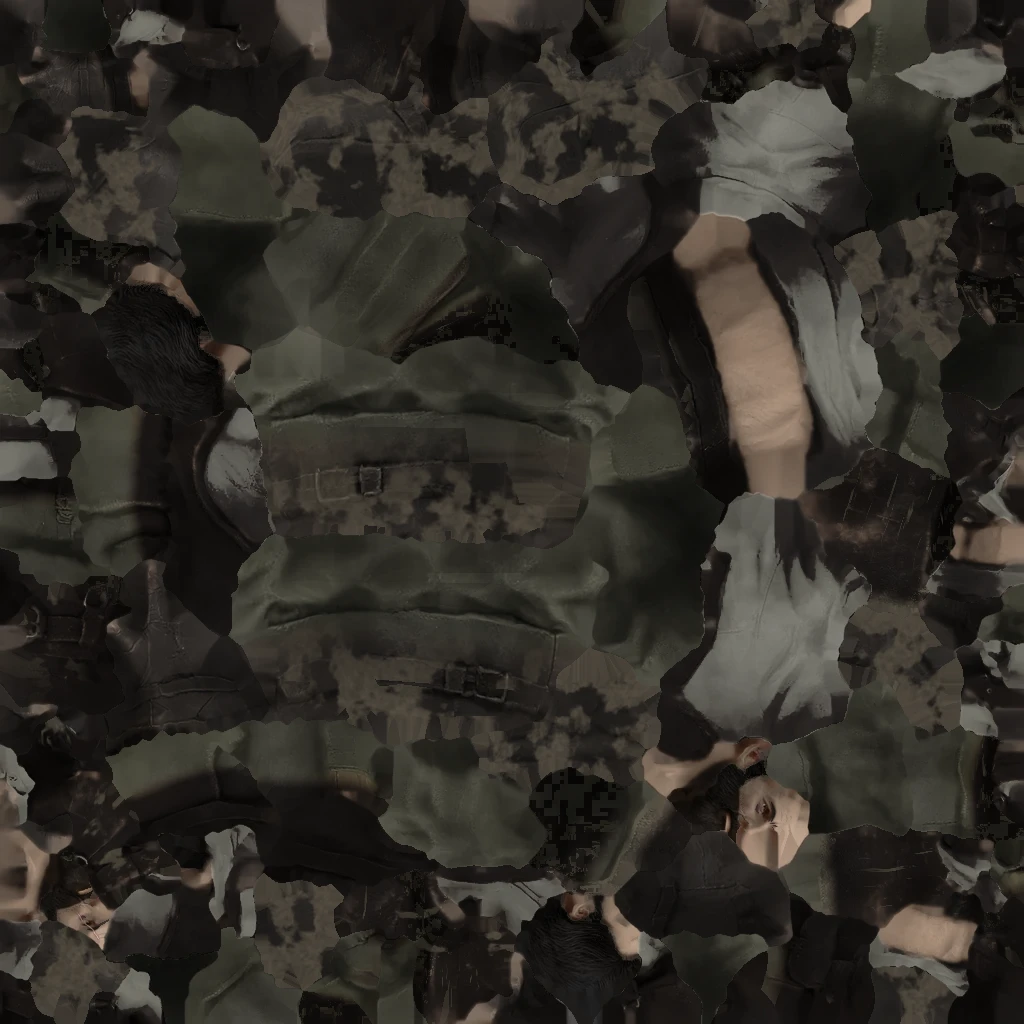
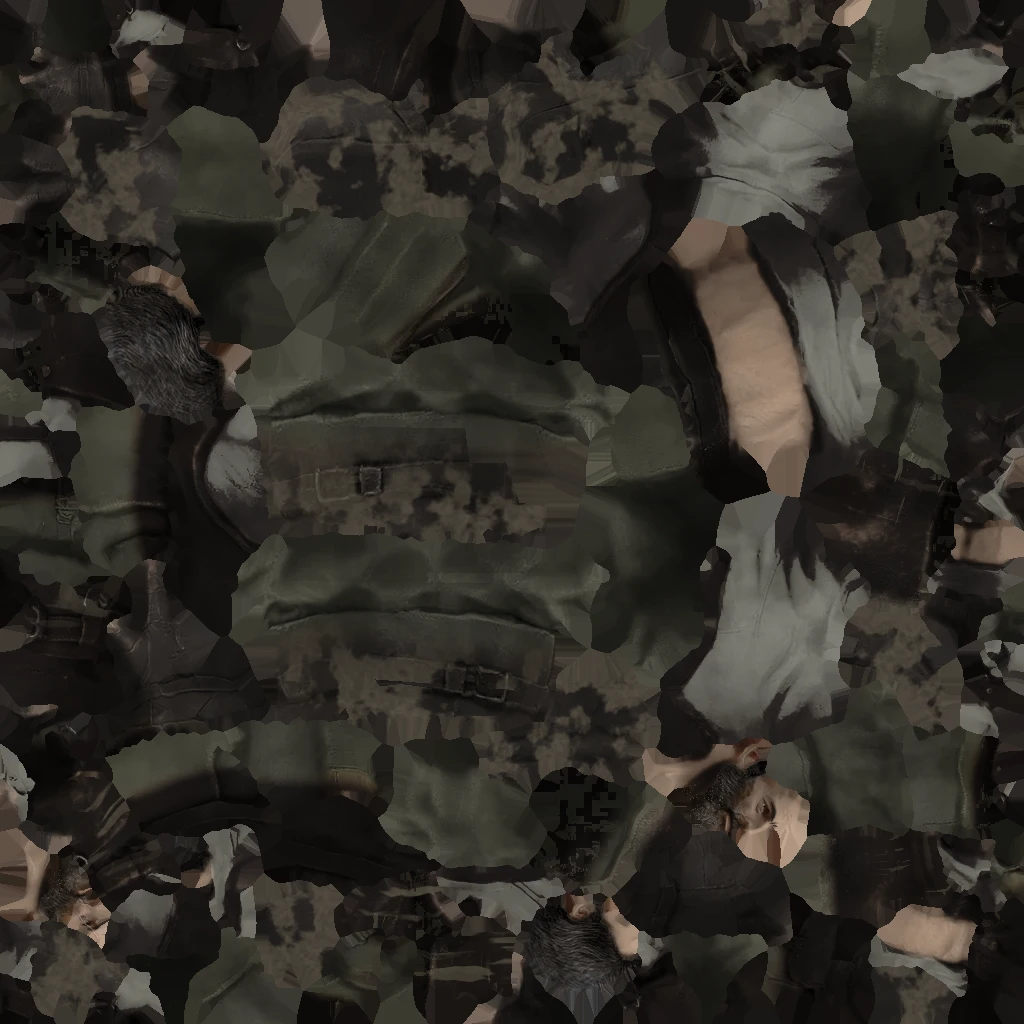
ph_tallow, round 3: the beard by its growth line, a broken nose, hooded lids, the old nick closed
Wes's forehead 'scar' was a triangle folded over; the sculpt now closes any such flap on the
head. Hair and beard lifted out of flat black with clumps and a few grey threads; the lips
and the mouth's corners; the scar one cut, a gap where it crosses the brow; tallow wiped
sideways and dripping straight; the moved face's normals smoothed. The viewer's ?flat probe.

Claude-Session: https://claude.ai/code/session_01YbmsD1HnEwDUrWv5TvmHtv

diff --git a/tools/folk/viewer.html b/tools/folk/viewer.html
@@ -48,7 +48,7 @@ try { folkJson = await fetch(base + 'folk.json').then((r) => (r.ok ? r.json() : 
 const renderer = new THREE.WebGLRenderer({ antialias: true, preserveDrawingBuffer: true });
 renderer.setPixelRatio(Math.min(2, devicePixelRatio));
 renderer.setSize(innerWidth, innerHeight);
-renderer.outputColorSpace = THREE.SRGBColorSpace;
+renderer.outputColorSpace = q.has('flat') ? THREE.LinearSRGBColorSpace : THREE.SRGBColorSpace;
 document.body.appendChild(renderer.domElement);
 const scene = new THREE.Scene();
 scene.background = new THREE.Color(0x3a3d42);
@@ -84,12 +84,13 @@ async function addBody(id, x) {
   g.setAttribute('normal', new THREE.BufferAttribute(N, 3));
   g.setAttribute('uv', new THREE.BufferAttribute(new Float32Array(uv), 2));
   g.setIndex(new THREE.BufferAttribute(new Uint32Array(idx), 1));
-  const mat = new THREE.MeshStandardMaterial({ color: 0xbbbbbb, roughness: 0.8, metalness: 0, side: THREE.DoubleSide })  // two-sided, as the game draws its people (cullMode none);
+  // (?flat: unlit and unfiltered, so a probe texture's texels can be read back off the screen.)
+  const mat = q.has('flat') ? new THREE.MeshBasicMaterial({ color: 0xbbbbbb, side: THREE.DoubleSide }) : new THREE.MeshStandardMaterial({ color: 0xbbbbbb, roughness: 0.8, metalness: 0, side: THREE.DoubleSide })  // two-sided, as the game draws its people (cullMode none);
   const c = folkJson?.swaps?.[id]?.c || model?.c;
-  if (c) tex.load(base + c, (t) => { t.colorSpace = THREE.SRGBColorSpace; t.flipY = false; mat.map = t; mat.color.set(0xffffff); mat.needsUpdate = true; });
+  if (c) tex.load(base + c, (t) => { t.colorSpace = q.has('flat') ? THREE.NoColorSpace : THREE.SRGBColorSpace; t.flipY = false; if (q.has('flat')) { t.magFilter = t.minFilter = THREE.NearestFilter; t.generateMipmaps = false; } mat.map = t; mat.color.set(0xffffff); mat.needsUpdate = true; });
   // The normal map, read the glTF way (three's GLTFLoader flips its y on a mesh with no tangents, so here too).
   const n = folkJson?.swaps?.[id]?.n || model?.n;
-  if (n && q.get('normals') !== '0') tex.load(base + n, (t) => { t.flipY = false; mat.normalMap = t; mat.normalScale.set(1, -1); mat.needsUpdate = true; });
+  if (n && q.get('normals') !== '0' && !q.has('flat')) tex.load(base + n, (t) => { t.flipY = false; mat.normalMap = t; mat.normalScale.set(1, -1); mat.needsUpdate = true; });
   const mesh = new THREE.Mesh(g, mat);
   mesh.frustumCulled = false;
   scene.add(mesh);

diff --git a/tools/phobos/grim_skin.py b/tools/phobos/grim_skin.py
@@ -25,7 +25,8 @@ nearest chart's point), and everything is a function of that point:
 
 `sculpt` in a skin moves the face itself: each move a soft blob in the front view (brow ridge forward and down,
 cheekbones out, cheeks in, the nose broken to one side, the jaw longer and wider), on the head bone's own skin only.
-It writes assets/game/folk/<id>.glb, the base body with those points moved and their normals turned to match; the
+It writes assets/game/folk/<id>.glb, the base body with those points moved and their normals turned to match (and
+any triangle folded over on the head closed); the
 skeleton, weights and UVs are the base's, so the rig, the clips, the normal and occlusion maps and the town's thread
 (which poses by the base's glb) all still fit. The swap names it as `glb`, and src/gfx/folk.js draws it in place of the
 base's mesh.
@@ -107,6 +108,13 @@ def texel_points(glb):
     pos, nrm, hd = pos[iy, ix], nrm[iy, ix], hd[iy, ix]
     nrm /= np.maximum(np.linalg.norm(nrm, axis=-1, keepdims=True), 1e-9)
     return pos, nrm, hd, cov
+
+
+def fill_gutters(img, cov):
+    """Every texel outside the charts takes its nearest chart texel's value, so what the GPU's filtering reads past a
+    chart's edge is the chart's own new colour, not the base's old padding."""
+    _, (iy, ix) = ndi.distance_transform_edt(~cov, return_indices=True)
+    return img[iy, ix]
 
 
 def noise3(p, cell, seed):
@@ -247,11 +255,28 @@ def face_marks(pos, nrm, hd, F, k):
     # over the creases would make a letter of them).
     for fy, x0, x1 in F["forehead"]:
         f = line(x, y, [(cx + x0, fy - 0.0015), (cx + (x0 * 0.5 + x1 * 0.5), fy + 0.001), (cx + x1, fy - 0.0015)], 0.0034)
-        f = f * smooth(np.abs(x - cx), 0.006, 0.010)
+        f = f * smooth(np.abs(x - cx), 0.008, 0.012)
         for piece in F.get("scar") or []:
-            f = f * smooth(poly_dist(x, y, piece)[0], 0.004, 0.008)
+            f = f * smooth(poly_dist(x, y, piece)[0], 0.008, 0.012)
         dark += f * k["forehead"]
         crease = np.maximum(crease, f * 0.5)
+    # Hooded upper lids: the fold of skin over each eye in shadow, heaviest at the outer corner.
+    for ex, ey in (F["eye_r"], F["eye_l"]):
+        out = 1 if ex > cx else -1
+        dark += line(x, y, [(ex - out * 0.011, ey + 0.004), (ex, ey + 0.0058), (ex + out * 0.013, ey + 0.0035)], 0.0045) * k["lids"]
+    # The broken nose: a shadowed plane down one side of the bridge, the light caught on the other (to the side its
+    # mesh was knocked).
+    side = F.get("nose_break", 1)
+    dark += blob(x, y, (cx - side * 0.0055, 1.646), (0.003, 0.012)) * k["nose"]
+    light += blob(x, y, (cx + side * 0.004, 1.648), (0.0028, 0.011)) * k["nose"] * 0.8
+    # The mouth: the lips taken nearly to the beard's dark, the upper lip shadowed, a little light on the lower; the
+    # corners a dark wedge into the moustache.
+    mx0, my = F["mouth_w"], F["mouth_y"]
+    dark += blob(x, y, (cx, my + 0.0022), (mx0 * 0.85, 0.0026), 4) * k["lips"]
+    dark += blob(x, y, (cx, my - 0.0025), (mx0 * 0.75, 0.003), 4) * k["lips"] * 0.55
+    light += blob(x, y, (cx, my - 0.0032), (mx0 * 0.35, 0.0015)) * k["lips"] * 0.5
+    for o in (-1, 1):
+        dark += line(x, y, [(cx + o * (mx0 - 0.003), my + 0.0005), (cx + o * (mx0 + 0.002), my - 0.002), (cx + o * (mx0 + 0.004), my + 0.004)], 0.004) * k["lips"]
     # The scar: one stroke from the forehead down through the brow, over the lid (which it skips), onto the cheekbone.
     scar = np.zeros(x.shape)
     eg = eye_gate(x, y, F)
@@ -259,9 +284,14 @@ def face_marks(pos, nrm, hd, F, k):
         sw = F.get("scar_w", 0.003)
         core = line(x, y, piece, sw) * eg
         scar = np.maximum(scar, core)
-        rim = np.clip(line(x, y, piece, sw * 1.9) * eg - core, 0, 1)
+        rim = np.clip(line(x, y, piece, sw * 1.7) * eg - core, 0, 1)
         dark += rim * k["scar_rim"]
-        crease = np.maximum(crease, rim * 0.5) - core * 0.4         # (its core raised, a hollow either side)
+        # Where it crosses the brow it is a gap in the hair, wider than the scar, and the scar itself faint there, so
+        # brow and scar never make a cross.
+        band = np.exp(-((y - F["brow_y"]) / 0.005) ** 2)
+        gap = line(x, y, piece, sw * 2.6, taper=False) * band
+        brows = brows * (1 - np.clip(gap * 1.5, 0, 1))
+        scar = np.maximum(scar * (1 - 0.6 * band), core * (1 - 0.6 * band))
     dark *= eg ** 0.5
     return (np.clip(dark, 0, 1) * front, np.clip(light, 0, 1) * front, np.clip(scar, 0, 1) * front, np.clip(brows, 0, 1) * front * eg,
             np.clip(crease, -1, 1) * front * eg)
@@ -309,7 +339,33 @@ def sculpt(src, dst, F, moves, tex):
     moved = np.linalg.norm(d, axis=1) > 1e-5
     N2 = Nn.copy()
     N2[moved] = Nn[moved] + (n1[moved] - n0[moved])
+    # (Across the face's front, where the mesh is coarsest, the welded smooth normal itself: the base's per-corner
+    # normals shade its few big triangles in hard planes, more so once moved.)
+    sm = (gate * smooth(y, 1.53, 1.56))[:, None]
+    N2 = N2 * (1 - sm) + n1 * sm
     N2 /= np.maximum(np.linalg.norm(N2, axis=1, keepdims=True), 1e-9)
+    # Flaps: a triangle on the face turned against the surface round it (Tripo leaves the odd one folded over, and as
+    # the game draws people two-sided it shows as a dark nick: Wes's "scar" on his right brow was one). Each is made
+    # degenerate, all three corners its first, so it draws nothing; the surface under it is whole.
+    fc = Q[I].mean(1)
+    fn = np.cross(Q[I[:, 1]] - Q[I[:, 0]], Q[I[:, 2]] - Q[I[:, 0]])
+    on = (hw[I].mean(1) > 0.5) & (fc[:, 1] > 1.5)
+    idx = np.nonzero(on)[0]
+    from scipy.spatial import cKDTree
+    tree = cKDTree(fc[idx])
+    flaps = []
+    for j, t in enumerate(idx):
+        near = idx[tree.query_ball_point(fc[t], 0.012)]
+        avg = fn[near].sum(0)
+        if np.dot(fn[t], avg) < -0.3 * np.linalg.norm(fn[t]) * np.linalg.norm(avg):
+            flaps.append(t)
+    I2 = I.copy()
+    I2[flaps] = I2[flaps, :1]
+    ia = J["accessors"][pr["indices"]]
+    ibv = J["bufferViews"][ia["bufferView"]]
+    ioff = b0 + ibv.get("byteOffset", 0) + ia.get("byteOffset", 0)
+    idt = {5125: "<u4", 5123: "<u2"}[ia["componentType"]]
+    b[ioff:ioff + I2.size * np.dtype(idt).itemsize] = I2.astype(idt).tobytes()
     for attr, arr in (("POSITION", Q), ("NORMAL", N2)):
         a = J["accessors"][pr["attributes"][attr]]
         bv = J["bufferViews"][a["bufferView"]]
@@ -323,10 +379,10 @@ def sculpt(src, dst, F, moves, tex):
     out = bytearray(b[:12]) + struct.pack("<II", len(js), 0x4E4F534A) + js + b[20 + jl:]
     struct.pack_into("<I", out, 8, len(out))
     open(dst, "wb").write(out)
-    print(f"  sculpt: {moved.sum()} vertices moved, at most {np.linalg.norm(d, axis=1).max() * 1000:.1f} mm")
+    print(f"  sculpt: {moved.sum()} vertices moved, at most {np.linalg.norm(d, axis=1).max() * 1000:.1f} mm; {len(flaps)} flaps closed")
 
 
-def normals(src, dst, pos, depth, heal):
+def normals(src, dst, pos, depth, heal, cov):
     """The base's normal map with the face's folds cut into it: `depth` (metres, + a ridge, - a fold) is a height
     over the map, turned to the slope it makes on the body (so a fold is as steep in a small chart as in a big one)
     and added to the base's normals, read the glTF way as src/gfx/shaders.js does (red along u, green up the
@@ -344,6 +400,7 @@ def normals(src, dst, pos, depth, heal):
     nb = nb * (1 - heal[..., None]) + flat * heal[..., None]
     n = np.stack([nb[..., 0] + nx * nb[..., 2], nb[..., 1] + ny * nb[..., 2], nb[..., 2]], -1)
     n /= np.maximum(np.linalg.norm(n, axis=-1, keepdims=True), 1e-9)
+    n = fill_gutters(n, cov)
     img = Image.fromarray(np.clip((n + 1) * 127.5 + 0.5, 0, 255).astype(np.uint8)).resize((512, 512), Image.LANCZOS)
     img.save(dst, lossless=True, method=6)
 
@@ -361,7 +418,11 @@ def kinds(a, pos, nrm, hd, H, F):
     hair = smooth(hd, 0.15, 0.4) * smooth(y, H * 0.80, H * 0.84) * (1 - skin) * smooth(-s, -0.26, -0.16)
     if F.get("beard"):
         B = F["beard"]
-        grows = smooth(-y, -B["top"] - 0.004, -B["top"] + 0.004) * smooth(y, B["bottom"], B["bottom"] + 0.004) \
+        # The beard's top follows its growth line (B["line"]: its height against the distance from mid), feathered over
+        # about a centimetre with a ragged edge.
+        ln = np.array(B["line"])
+        top = np.interp(np.abs(x - F["mid"]), ln[:, 0], ln[:, 1]) + (fbm(pos, 0.006, 21, 2) - 0.5) * 0.008
+        grows = smooth(-y, -top - B.get("feather", 0.005), -top + B.get("feather", 0.005)) * smooth(y, B["bottom"], B["bottom"] + 0.004) \
             * smooth(-np.abs(x - F["mid"]), -B["half"] - 0.004, -B["half"]) * smooth(nrm[..., 2], -0.4, 0.0) * smooth(z, 0.02, 0.04) * smooth(hd, 0.15, 0.35)
         lips = blob(x, y, (F["mid"] + B["lips"][0], B["lips"][1]), B["lips"][2:], 4)
         beard = grows * (1 - lips) * smooth(-v, -0.75, -0.6)
@@ -393,6 +454,14 @@ def make(sid, spec, look_dir=None):
     for kind in ("linen", "apron", "legs", "boots", "gloves", "hair"):
         m = K[kind]
         out = out * (1 - m[..., None]) + restyle(a, m, C[kind][:3], C[kind][3] if len(C[kind]) > 3 else 1.0) * m[..., None]
+    # Hair and beard aren't one flat black: broad lighter clumps along them, grease catching the light, and a few
+    # grey threads at the chin.
+    Hh = spec.get("hair", {})
+    if Hh:
+        clump = smooth(fbm(pos * np.array([1, 2.5, 1]), 0.012, 101, 3), 0.45, 0.7)
+        out = out * (1 + (clump * Hh["clumps"] * K["hair"])[..., None])
+        grey = smooth(noise3(pos * np.array([3, 0.4, 3]), 0.002, 103), 0.72, 0.8) * smooth(-y, -(F["mouth_y"] - 0.012), -(F["mouth_y"] - 0.02)) * K["hair"]
+        out = out * (1 - (grey * Hh["grey"])[..., None]) + np.array([0.42, 0.41, 0.4]) * (grey * Hh["grey"])[..., None]
     # Skin: one complexion over face, neck, forearms and hands.
     S = spec["skin"]
     sk = restyle(a, K["skin"], S["to"], S.get("keep", 1.0))
@@ -414,8 +483,8 @@ def make(sid, spec, look_dir=None):
     G = spec["grime"]
     # Grease on the apron: waxy, pale tallow smears across the belly and the bib's foot, drips running down from them.
     if G.get("tallow"):
-        smear = smooth(fbm(pos * np.array([1, 1.6, 1]), 0.05, 41, 4), 0.6, 0.7) * np.exp(-((y - 1.02) / 0.14) ** 2)
-        drip = smooth(fbm(pos * np.array([14, 0.3, 14]), 0.08, 53, 3), 0.66, 0.74) * smooth(-y, -1.02, -0.92) * smooth(y, 0.66, 0.8)
+        smear = smooth(fbm(pos * np.array([0.35, 3.0, 1]), 0.05, 41, 2), 0.58, 0.68) * np.exp(-((y - 0.98) / 0.09) ** 2)
+        drip = smooth(noise3(pos * np.array([1, 0.08, 1]), 0.006, 53), 0.78, 0.84) * smooth(-y, -1.0, -0.9) * smooth(y, 0.7, 0.86)
         tal = np.clip(smear + drip * 0.8, 0, 1) * K["apron"] * smooth(z, 0.1, 0.13) * G["tallow"]
         tcol = np.array(G["tallow_col"])
         out = out * (1 - tal[..., None]) + (tcol * (0.85 + 0.3 * fbm(pos, 0.01, 61, 2))[..., None]) * tal[..., None]
@@ -455,11 +524,11 @@ def make(sid, spec, look_dir=None):
     for e in (F["eye_r"], F["eye_l"]):
         ir = blob(x, y, (e[0] + F.get("iris_dx", 0), e[1]), (0.0055, 0.0045), 4) * face * (1 - K["skin"]) * smooth(-out.mean(-1), -0.42, -0.2)
         out = out * (1 - ir[..., None] * k["iris"]) + np.array(k["iris_col"]) * (0.6 + 0.8 * out.mean(-1, keepdims=True)) * ir[..., None] * k["iris"]
-    res = np.clip(out, 0, 1)
+    res = fill_gutters(np.clip(out, 0, 1), cov)
     Image.fromarray((res * 255 + 0.5).astype(np.uint8)).save(os.path.join(D, sid + "_c.webp"), quality=90, method=4)
     sw = {"base": body, "c": sid + "_c.webp", "note": "Phobos's crowd: " + spec["note"]}
     if spec.get("normals"):
-        normals(os.path.join(D, folk["models"][body]["n"]), os.path.join(D, sid + "_n.webp"), pos, cr * spec["normals"]["depth"], heal)
+        normals(os.path.join(D, folk["models"][body]["n"]), os.path.join(D, sid + "_n.webp"), pos, cr * spec["normals"]["depth"], heal, cov)
         sw["n"] = sid + "_n.webp"
     if spec.get("sculpt"):
         sculpt(os.path.join(D, folk["models"][body]["glb"]), os.path.join(D, sid + ".glb"), F, spec["sculpt"], a)
